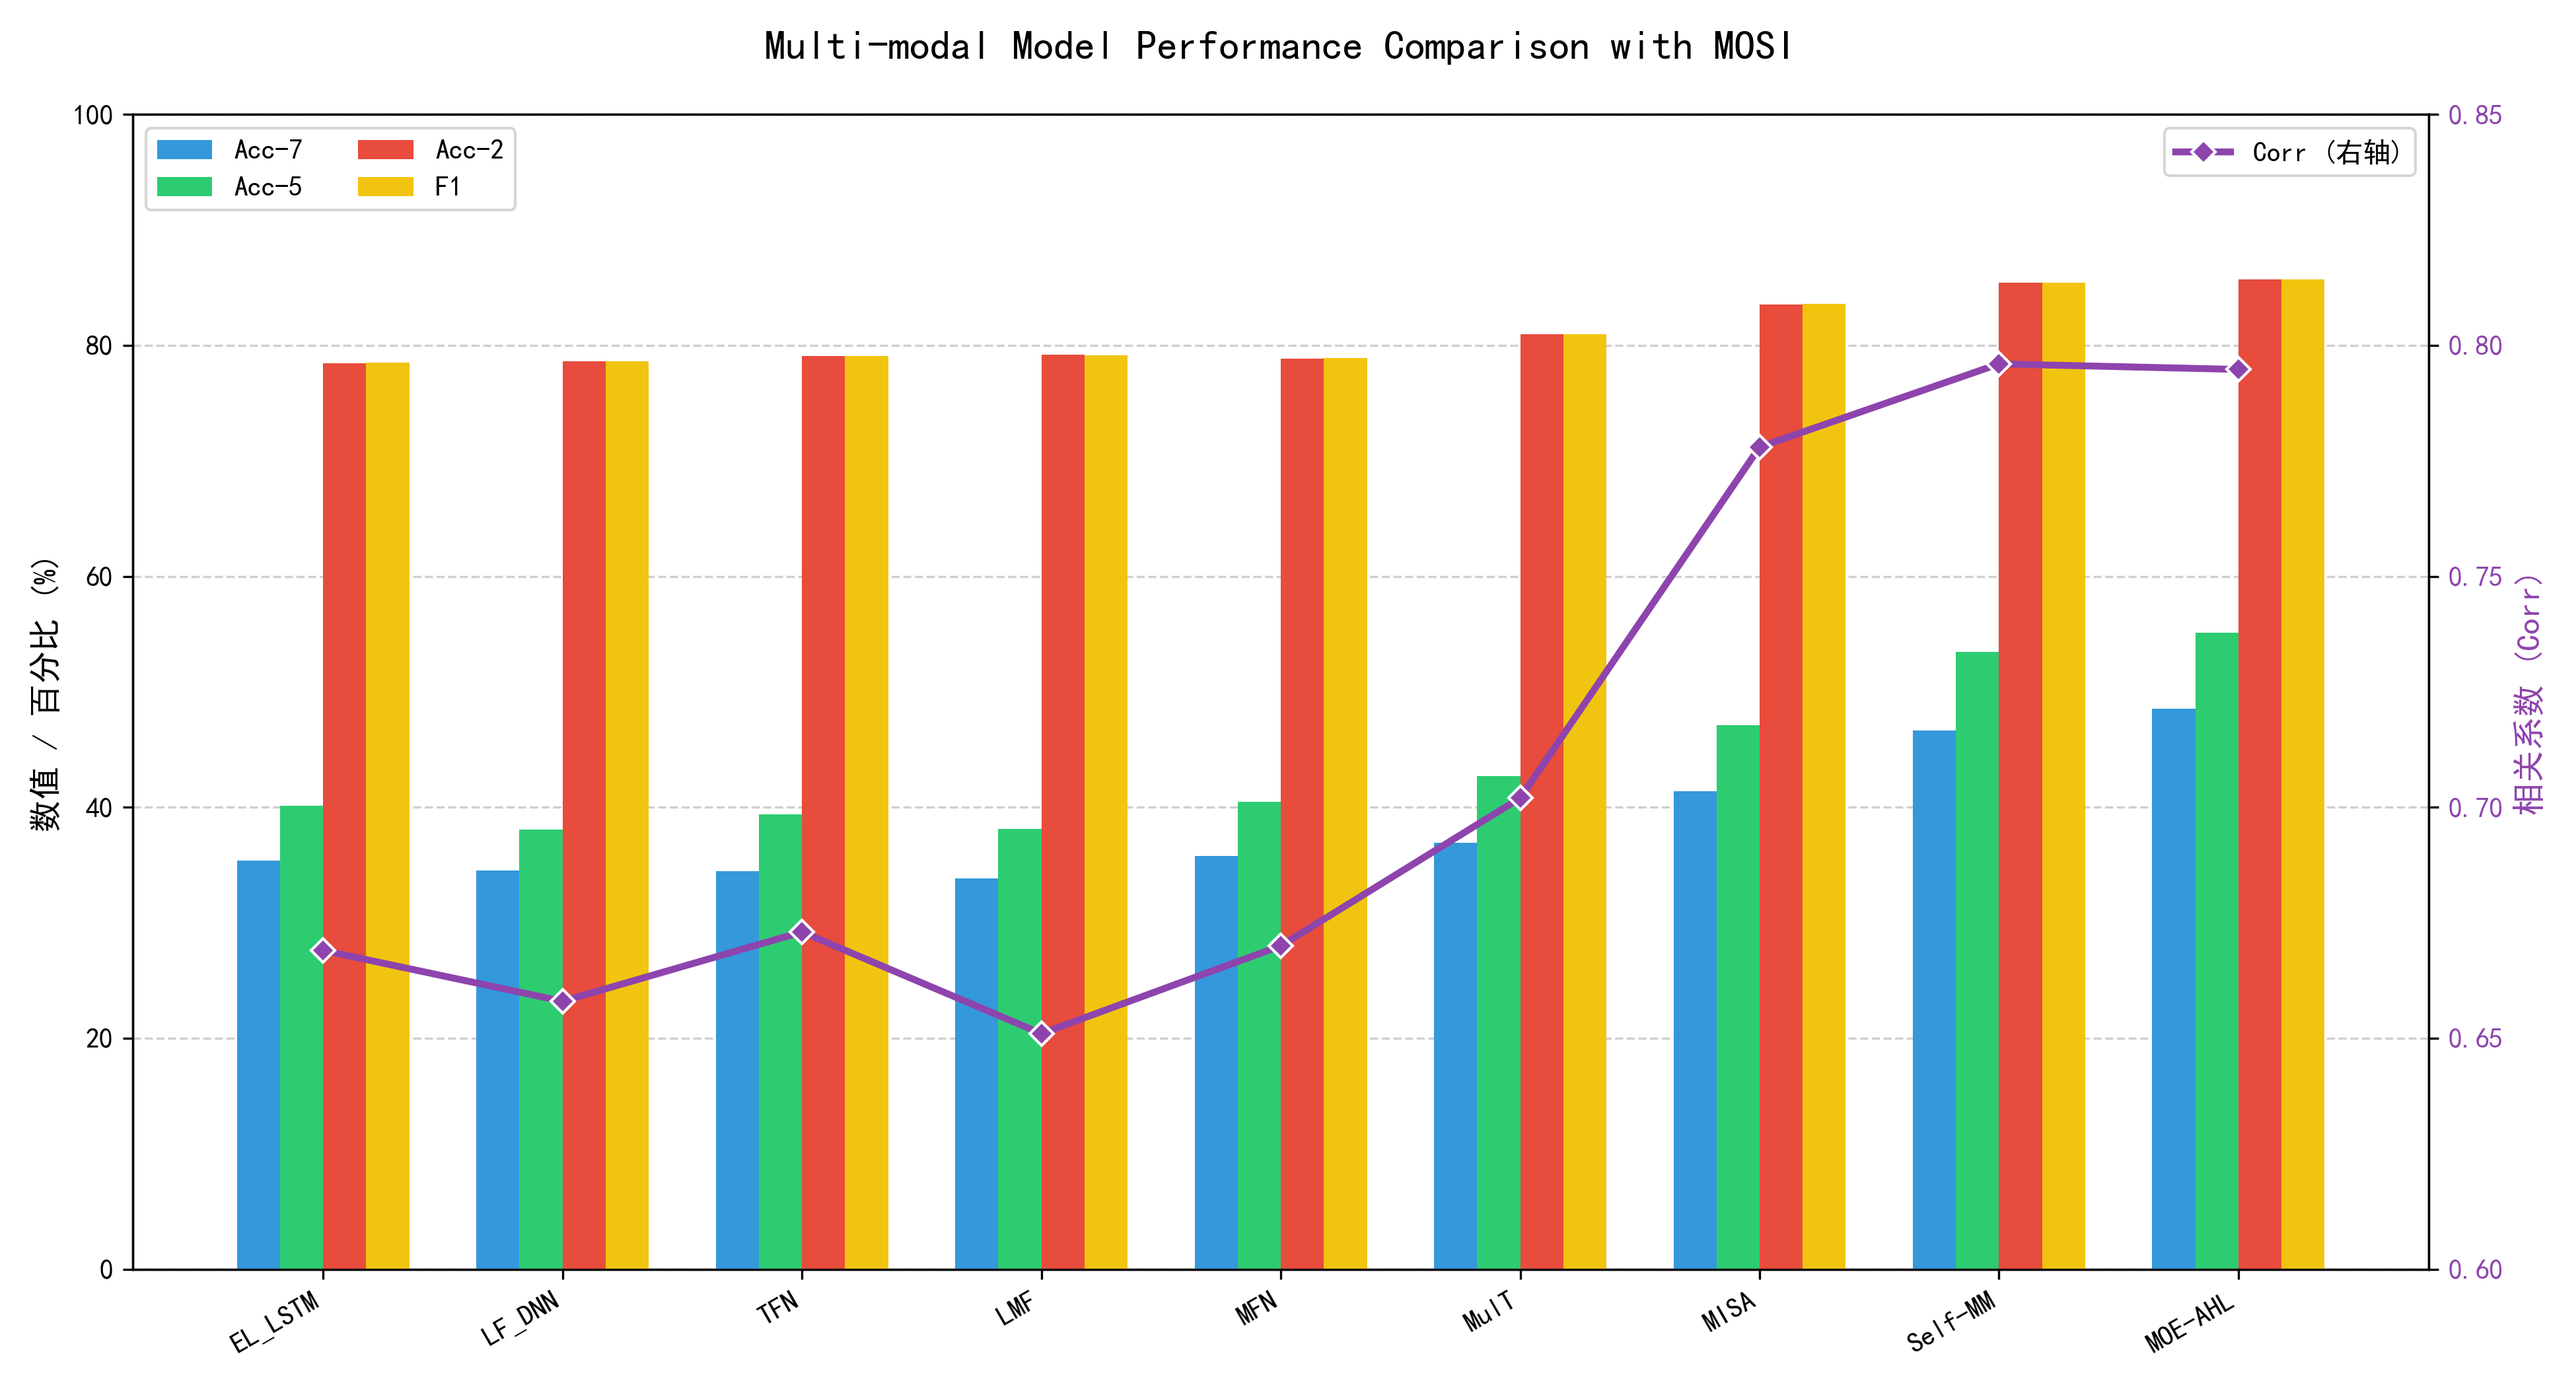
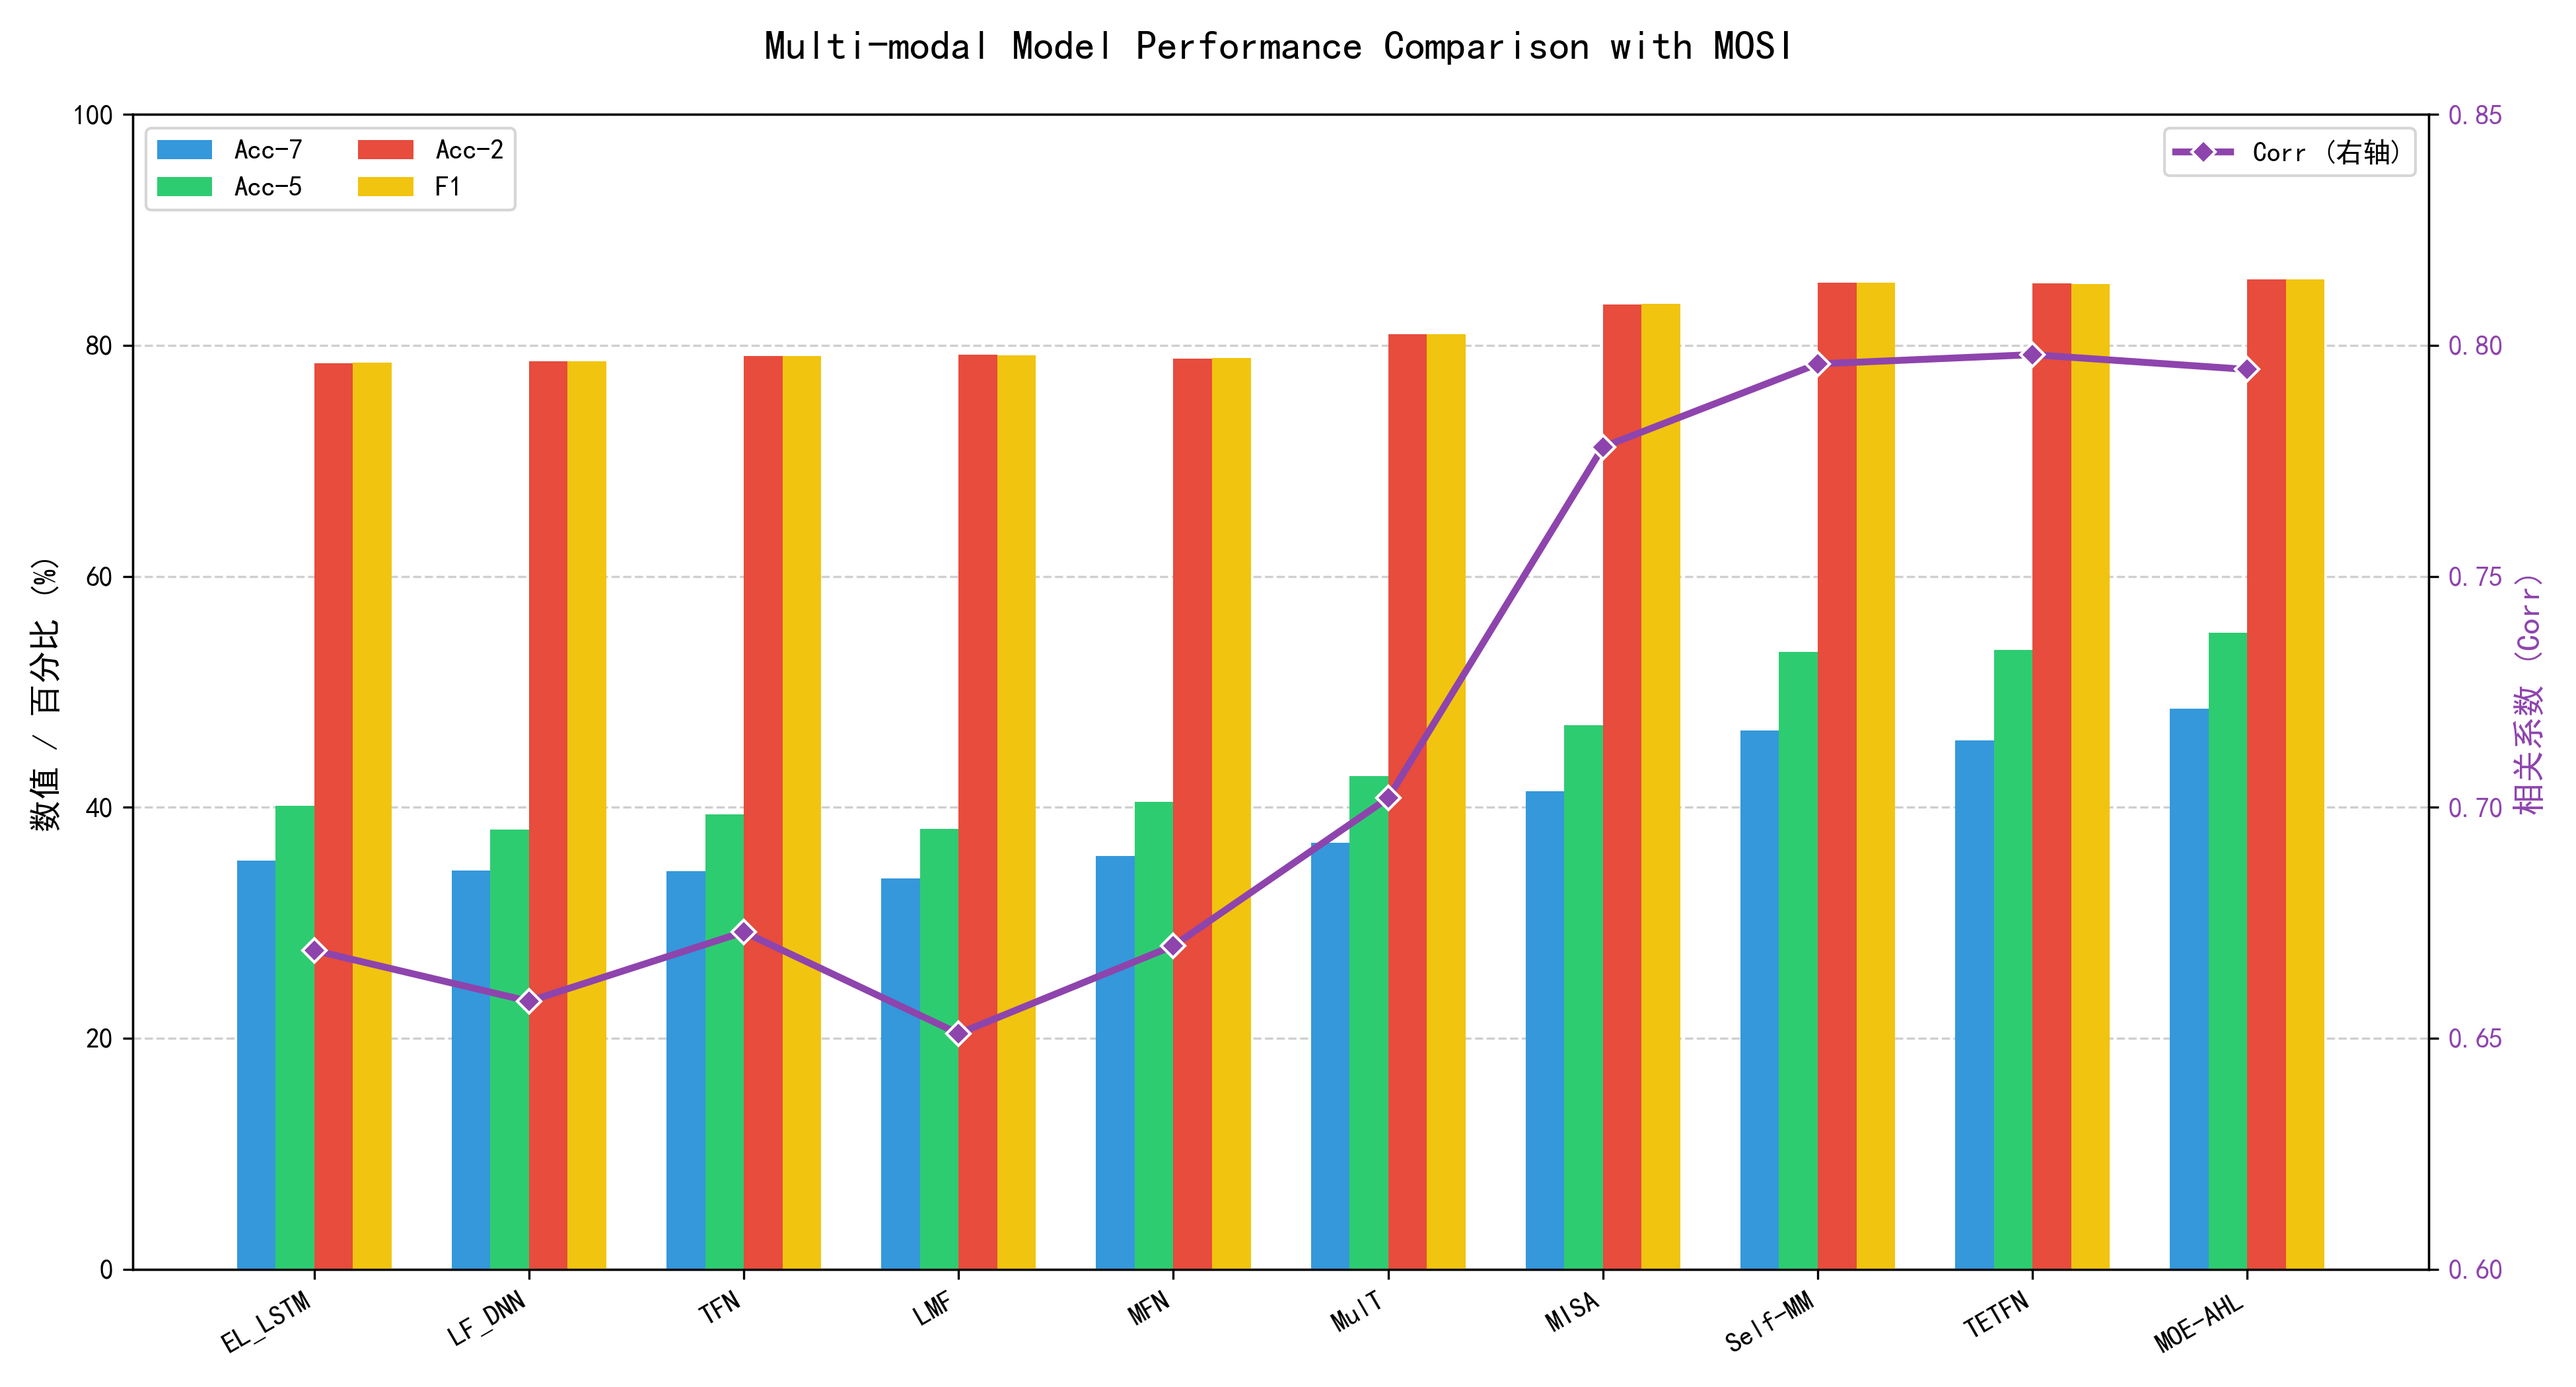
画图提交

diff --git a/plot/mosi.py b/plot/mosi.py
@@ -1,34 +1,33 @@
 import matplotlib
 matplotlib.use('Agg')
 import matplotlib.pyplot as plt
-
-# 1. 指定默认字体为黑体（SimHei）或其他系统中已安装的中文基础字体
-plt.rcParams['font.sans-serif'] = ['SimHei']
-
-# 2. 解决坐标轴负号 '-' 显示为方块的问题
-plt.rcParams['axes.unicode_minus'] = False
 import pandas as pd
 import numpy as np
 
-# 1. 填入你的新数据
+# 1. 指定默认字体
+plt.rcParams['font.sans-serif'] = ['SimHei']
+# 2. 解决坐标轴负号问题
+plt.rcParams['axes.unicode_minus'] = False
+
+# --- 修改数据部分开始 ---
 data = {
-    'Model': ['EL_LSTM', 'LF_DNN', 'TFN', 'LMF', 'MFN', 'MulT', 'MISA', 'Self-MM', 'MOE-AHL'],
-    'Acc-7': [35.39, 34.52, 34.46, 33.82, 35.8, 36.91, 41.37, 46.67, 48.54],
-    'Acc-5': [40.15, 38.05, 39.39, 38.13, 40.47, 42.68, 47.08, 53.47, 55.10],
-    'Acc-2': [78.48, 78.63, 79.08, 79.18, 78.87, 80.98, 83.54, 85.46, 85.74],
-    'F1': [78.51, 78.63, 79.11, 79.15, 78.90, 80.95, 83.58, 85.43, 85.74],
-    'Corr': [0.669, 0.658, 0.673, 0.651, 0.670, 0.702, 0.778, 0.796, 0.7948]
+    'Model': ['EL_LSTM', 'LF_DNN', 'TFN', 'LMF', 'MFN', 'MulT', 'MISA', 'Self-MM', 'TETFN', 'MOE-AHL'],
+    'Acc-7': [35.39, 34.52, 34.46, 33.82, 35.8, 36.91, 41.37, 46.67, 45.77, 48.54],
+    'Acc-5': [40.15, 38.05, 39.39, 38.13, 40.47, 42.68, 47.08, 53.47, 53.64, 55.10],
+    'Acc-2': [78.48, 78.63, 79.08, 79.18, 78.87, 80.98, 83.54, 85.46, 85.37, 85.74],
+    'F1':    [78.51, 78.63, 79.11, 79.15, 78.90, 80.95, 83.58, 85.43, 85.33, 85.74],
+    'Corr':  [0.669, 0.658, 0.673, 0.651, 0.670, 0.702, 0.778, 0.796, 0.798, 0.7948]
 }
+# --- 修改数据部分结束 ---
 
 df = pd.DataFrame(data)
 
-# 2. 设置绘图风格 (针对新数据微调了布局)
+# 设置绘图风格
 fig, ax1 = plt.subplots(figsize=(13, 7))
 x = np.arange(len(df['Model']))
 width = 0.18
 
-# 3. 绘制柱状图 (Acc-7, Acc-5, Acc-2, F1)
-# 使用了更现代的配色方案
+# 绘制柱状图 (Acc-7, Acc-5, Acc-2, F1)
 rects1 = ax1.bar(x - 1.5*width, df['Acc-7'], width, label='Acc-7', color='#3498db', zorder=3)
 rects2 = ax1.bar(x - 0.5*width, df['Acc-5'], width, label='Acc-5', color='#2ecc71', zorder=3)
 rects3 = ax1.bar(x + 0.5*width, df['Acc-2'], width, label='Acc-2', color='#e74c3c', zorder=3)
@@ -42,21 +41,20 @@ ax1.set_xticklabels(df['Model'], rotation=30, ha='right')
 ax1.legend(loc='upper left', ncol=2, frameon=True)
 ax1.grid(axis='y', linestyle='--', alpha=0.6, zorder=0)
 
-# 4. 绘制 Corr 折线图 (使用双 Y 轴)
+# 绘制 Corr 折线图 (使用双 Y 轴)
 ax2 = ax1.twinx()
 ax2.plot(x, df['Corr'], color='#8e44ad', marker='D', markersize=6, linewidth=2.5,
          label='Corr (右轴)', markeredgecolor='white', zorder=5)
 
-# 设置右轴属性 (根据新数据的 Corr 范围 0.65-0.80 进行了优化)
+# 设置右轴属性
 ax2.set_ylabel('相关系数 (Corr)', fontsize=12, color='#8e44ad', fontweight='bold')
 ax2.tick_params(axis='y', labelcolor='#8e44ad')
 ax2.set_ylim(0.60, 0.85)
 ax2.legend(loc='upper right')
 
-# 5. 标题与保存
+# 标题与保存
 plt.title('Multi-modal Model Performance Comparison with MOSI', fontsize=15, fontweight='bold', pad=20)
 fig.tight_layout()
 
-# 如需保存图片，取消下面这行的注释
-plt.savefig('mosi.png', dpi=300)
+plt.savefig('mosi', dpi=300)
 plt.show()
